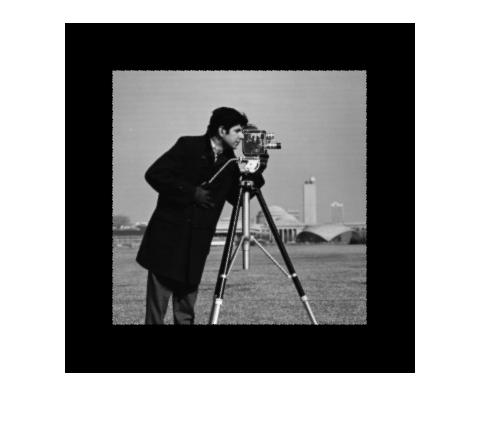
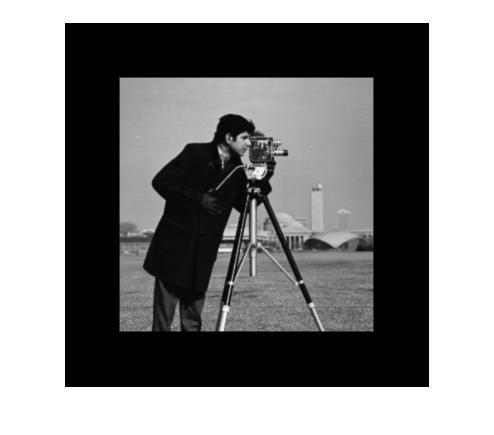
Finished myAffine and answers to Affine Transformation

diff --git a/Lab 1/main.m b/Lab 1/main.m
@@ -39,13 +39,13 @@ function main()
     % We've added an addMargins flag to rotateImage() which results
     % in a complete picture as output. See rotateImage() for further details.
     figure('name', 'Image after 45deg rotation w/ constant border method')
-    rotatedImage = rotateImage(img, pi/6, 'linear', 'constant', true);
+    rotatedImage = rotateImage(img, pi/4, 'linear', 'constant', true);
     imshow(rotatedImage)
     figure('name', 'Image after 45deg rotation w/ nearest border method')
-    rotatedImage = rotateImage(img, pi/6, 'linear', 'nearest', true);
+    rotatedImage = rotateImage(img, pi/4, 'linear', 'nearest', true);
     imshow(rotatedImage)
     figure('name', 'Image after 45deg rotation w/ periodic border method')
-    rotatedImage = rotateImage(img, pi/6, 'linear', 'periodic', true);
+    rotatedImage = rotateImage(img, pi/4, 'linear', 'periodic', true);
     imshow(rotatedImage)
     
     %% Question 3.1.4
@@ -62,17 +62,17 @@ function main()
     %% Question 3.1.5
     % The distance, between the original and interpolated version of 
     % the image is measured using Euclidean distance.
-    imgNearest = rotateImage(img, pi/6, 'nearest', 'constant', true);
-    imgNearest = rotateImage(imgNearest, -pi/6, 'nearest');
+    imgNearest = rotateImage(img, pi/4, 'nearest', 'constant', true);
+    imgNearest = rotateImage(imgNearest, -pi/4, 'nearest');
     figure('name', 'Image after double rotation w/ nearest interpolation')
     imshow(imgNearest)
     
-    imgLinear = rotateImage(img, pi/6, 'linear', 'constant', true);
-    imgLinear = rotateImage(imgLinear, -pi/6, 'linear');
+    imgLinear = rotateImage(img, pi/4, 'linear', 'constant', true);
+    imgLinear = rotateImage(imgLinear, -pi/4, 'linear');
     figure('name', 'Image after double rotation w/ linear interpolation')
     imshow(imgLinear)
  
-    borderedImage = borderImage(img, pi/6);
+    borderedImage = borderImage(img, pi/4);
     figure('name', 'Image w/ border')
     imshow(borderedImage)
     
@@ -83,6 +83,17 @@ function main()
     fprintf('Distance (nearest): %f; distance (linear): %f, distance difference: %f\n', ...
         distNearest, distLinear, distDiff);
    
-    %% Question 4.1.1
+    %% Question 4.1.1 / 4.1.3
+    % Check out the implementation of
+    % myAffine(image, x1, y1, x2, y2, x3, y3, m, n, method)
     
+    %% Question 4.1.2
+    [~, ~, topMargin, leftMargin] = imageRotationMargins(img, pi/4);
+    [height, width] = size(img);
+    figure('name', 'Image after affine transformation')
+    rotatedImage = myAffine(img, -topMargin, width/2, height/2, ...
+                   -leftMargin, height/2, width+leftMargin, height, width, 'linear');
+    imshow(rotatedImage)
+    
+    %% Question 5.
 end

diff --git a/Lab 1/pixelValue.m b/Lab 1/pixelValue.m
@@ -12,30 +12,30 @@ function color = pixelValue(image, x, y, interpolationMethod, borderMethod)
             case 'constant'
                 color = 0;
             case 'nearest'
-                x = floor(valueInRange(1, n, x));
-                y = floor(valueInRange(1, m, y));
-                color = image(y, x);
+                x = floor(valueInRange(1, m, x));
+                y = floor(valueInRange(1, n, y));
+                color = image(x, y);
             case 'periodic'
-                if ~(x >= 1 && x <= n)
-                    x = valueInRange(1, n, abs(abs(x) - n));
+                if ~(x >= 1 && x <= m)
+                    x = valueInRange(1, m, abs(abs(x) - m));
                 end
-                if ~(y >=1 && y <= m)
-                    y = valueInRange(1, m, abs(abs(y) - m));
+                if ~(y >=1 && y <= n)
+                    y = valueInRange(1, n, abs(abs(y) - n));
                 end
-                color = image(floor(y), floor(x));
+                color = image(floor(x), floor(y));
         end
         return
     end
     
     switch (interpolationMethod)
         case 'nearest'
-            color = image(floor(y + 0.5), floor(x + 0.5));
+            color = image(floor(x + 0.5), floor(y + 0.5));
             return
         case 'linear'
-            k = floor(y);
-            a = y - k;
-            l = floor(x);
-            b = x - l;
+            k = floor(x);
+            a = x - k;
+            l = floor(y);
+            b = y - l;
             color = (1-a)*(1-b)*image(k,l) + (1-a)*b*image(k, l+1) ...
                     + a*b*image(k+1, l+1) + a*(1-b)*image(k+1, l);
             return

diff --git a/Lab 1/rotateImage.m b/Lab 1/rotateImage.m
@@ -9,7 +9,7 @@ function rotatedImage = rotateImage(image, angle, ...
                         interpolationMethod, borderMethod, addMargins)
     
     % Set periodic to be the default border method.
-    if ~exist('borderMethod', 'var'), borderMethod = 'periodic'; end
+    if ~exist('borderMethod', 'var'), borderMethod = 'constant'; end
     % Set the addMargins flag to false by default
     if ~exist('addMargins', 'var'), addMargins = false; end
     if addMargins
@@ -24,18 +24,18 @@ function rotatedImage = rotateImage(image, angle, ...
     numberOfIndices = m*n;
     
     R = rot(angle);
-    [X, Y] = meshgrid(1:n, 1:m);
+    [X, Y] = meshgrid(1:m, 1:n);
     indices = [X(:)'; Y(:)'; ones(1, numberOfIndices)];
     
     % Added an additional translation for positioning the image
     % after rotation if margins are specified.
     rotatedIndices = trans(-[topMargin, leftMargin]) * ...
                      trans(center) * (R * (trans(-center) * indices));
-    rotatedImage = zeros(m, n);
+    rotatedImage = zeros(n, m);
     
     for i = 1:numberOfIndices
         rotatedImage(indices(2, i), indices(1, i)) = pixelValue(image, ...
-            rotatedIndices(1, i), rotatedIndices(2, i), ...
+            rotatedIndices(2, i), rotatedIndices(1, i), ...
             interpolationMethod, borderMethod);
     end
 end

diff --git a/Lab 1/myAffine.m b/Lab 1/myAffine.m
@@ -1,3 +1,25 @@
-function r = myAffine()
+%% Affine Transformation
+% Performs an affine transformation on a provided image. The affine 
+% transformation is derived from three provided input points.
+function r = myAffine(image, x1, y1, x2, y2, x3, y3, m, n, method)
 
+    % allocate new image of correct size
+    r = zeros(n, m);
+    % matrix containing input points
+    A = [x1, x2, x3;
+         y1, y2, y3;
+         1, 1, 1];
+    % matrix containing corresponding three output corner points
+    B = [1, m, 1;
+         1, 1, n];
+    X = B / A;
+    numberOfIndices = m*n;
+    [XI, YI] = meshgrid(1:m, 1:n);
+    indices = [XI(:)'; YI(:)'; ones(1, numberOfIndices)];
+    transformedIndices = X * indices;
+    
+    for i = 1:numberOfIndices
+        r(indices(2, i), indices(1, i)) = pixelValue(image, ...
+            transformedIndices(2, i), transformedIndices(1, i), method);
+    end
 end

diff --git a/Lab 1/plotParallelogram.m b/Lab 1/plotParallelogram.m
@@ -1,0 +1,12 @@
+%% Plot Parallelogram
+% Plot a parallelogram overlayed on the current axis 
+% coordinates given are image coordinates
+function plotParallelogram(x1, y1, x2, y2, x3, y3)
+
+    hold on;
+    plot([x1, x2, x3, x3-x2+x1, x1], [y1, y2, y3, y1-y2+y3, y1], ...
+        'y', 'LineWidth', 2);
+    text(x1, y1, '1', 'Color', [0, 1, 0], 'FontSize', 18);
+    text(x2, y2, '2', 'Color', [0, 1, 0], 'FontSize', 18);
+    text(x3, y3, '3', 'Color', [0, 1, 0], 'FontSize', 18);
+end
